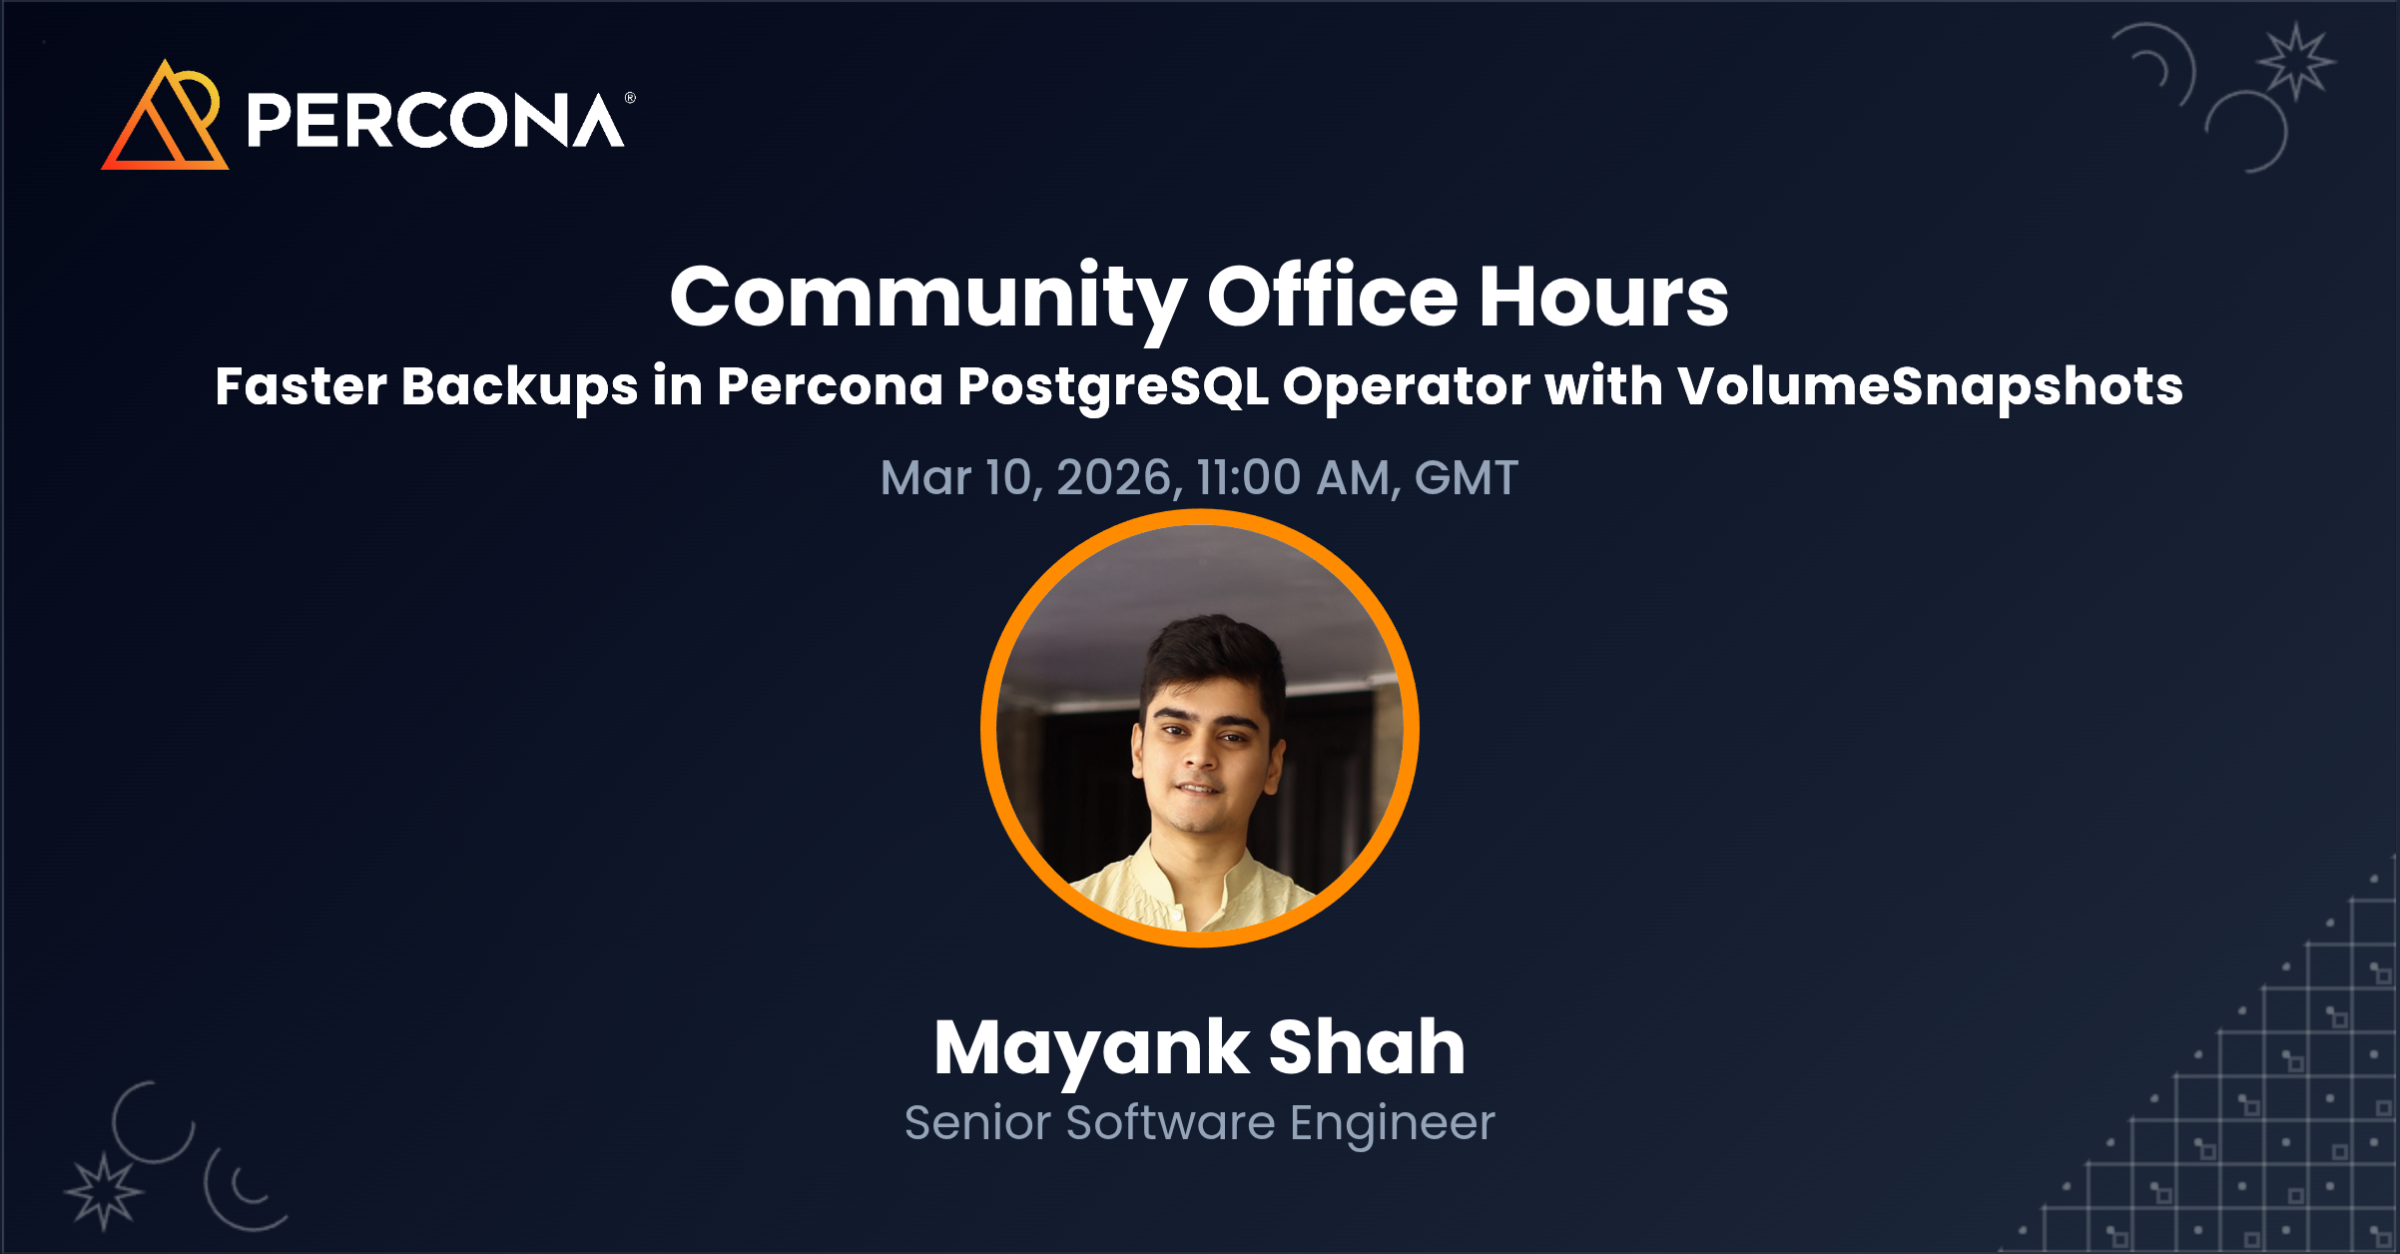
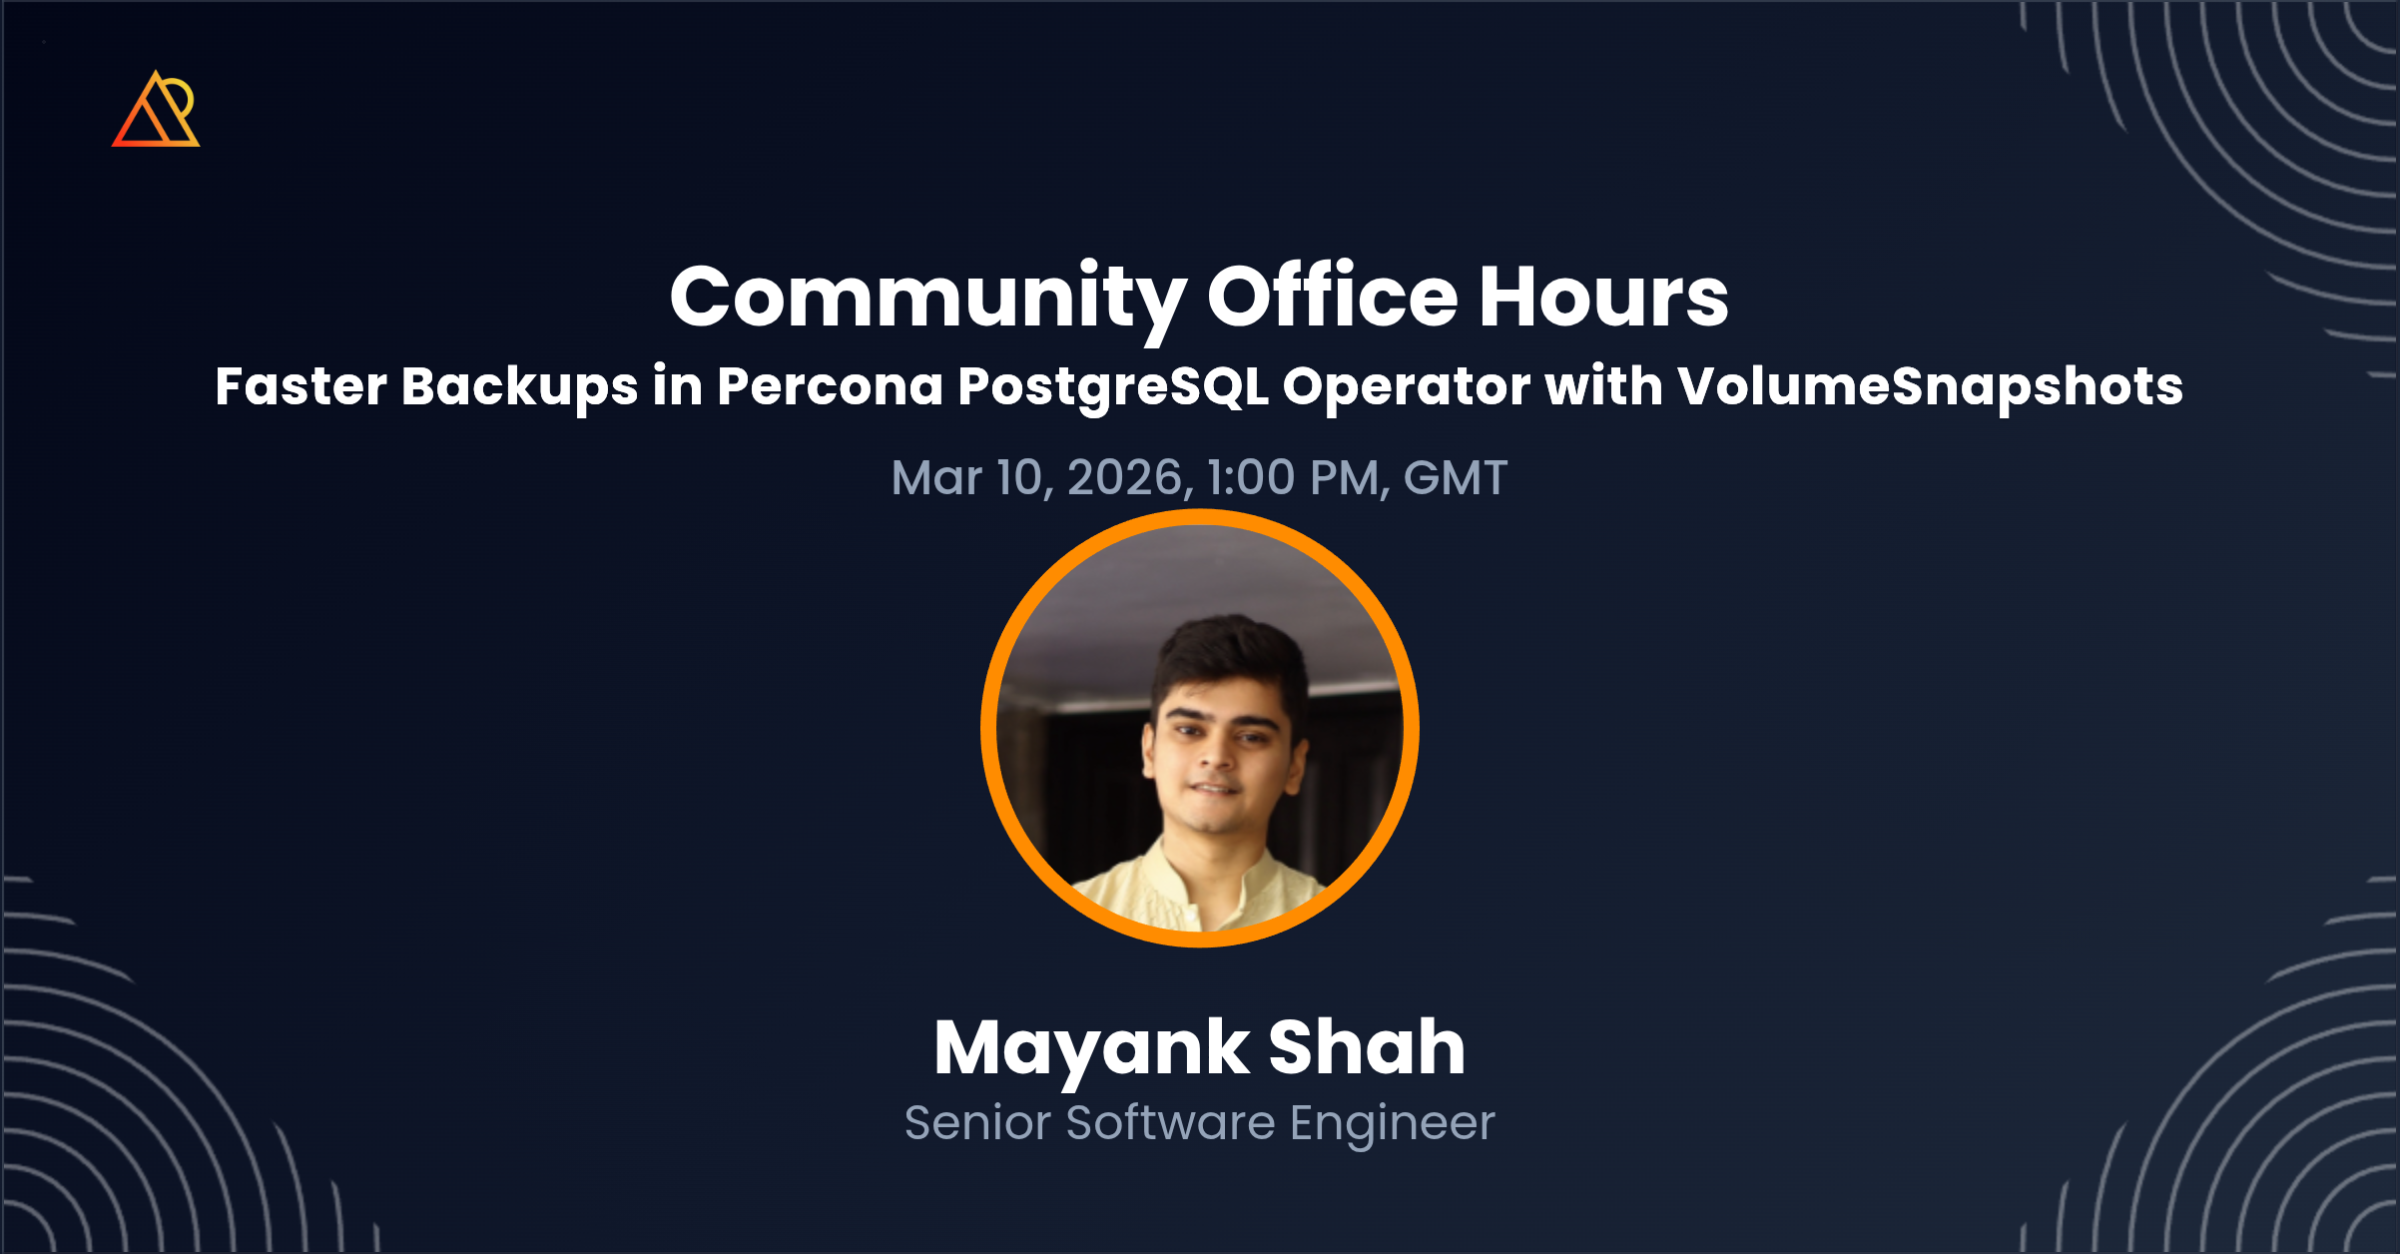
Pushing time to hour for the event

diff --git a/content/events/2026-coh-faster-backups-percona-postgresql/index.md b/content/events/2026-coh-faster-backups-percona-postgresql/index.md
@@ -17,10 +17,10 @@ events_category: ["Speaking", "Community"]
 Discover how Percona’s latest **PostgreSQL Operator** feature transforms database backups with **Kubernetes VolumeSnapshots**. Learn the setup, benefits such as near-instant snapshots and improved disaster recovery, key limitations, and practical deployment steps for production workloads.
 
 
-- 📅 **Date/Time:** 10 March, 11:00 AM GTM
+- 📅 **Date/Time:** 10 March, 13:00 PM GTM
 - 👤 **Speaker:** Mayank Shah - Percona Senior Software Engineer
 - 📍 Online
-- 🔗 To Be Confirmed
+- 🔗 [Register here](https://event.on24.com/wcc/r/5268155/E0E4F92A432EE4C61301C598DE6F253F)
 
 **Mayank** will share how Percona’s PostgreSQL Operator uses Kubernetes VolumeSnapshots to speed up backups, enable near-instant snapshots, and support disaster recovery. He’ll walk through the setup, key benefits, important limitations, and practical steps for deploying this in production.
 
